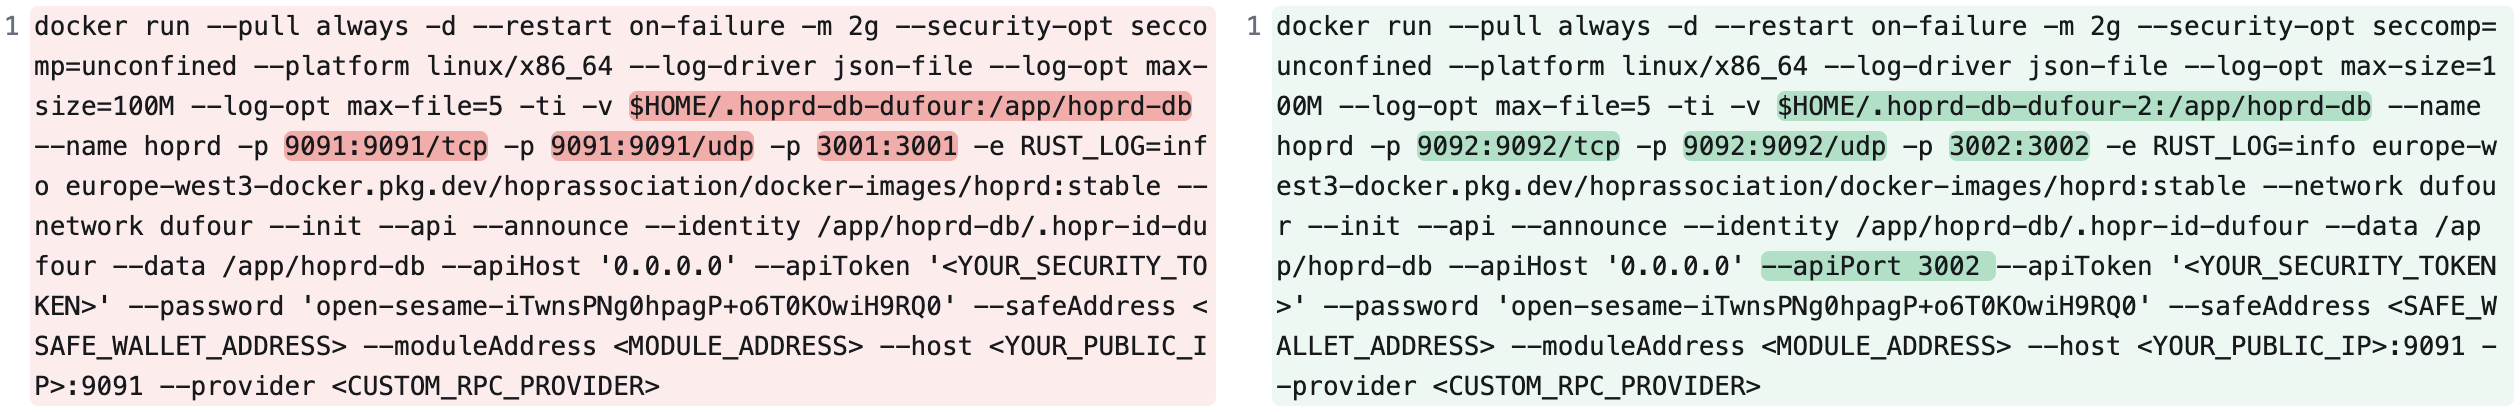
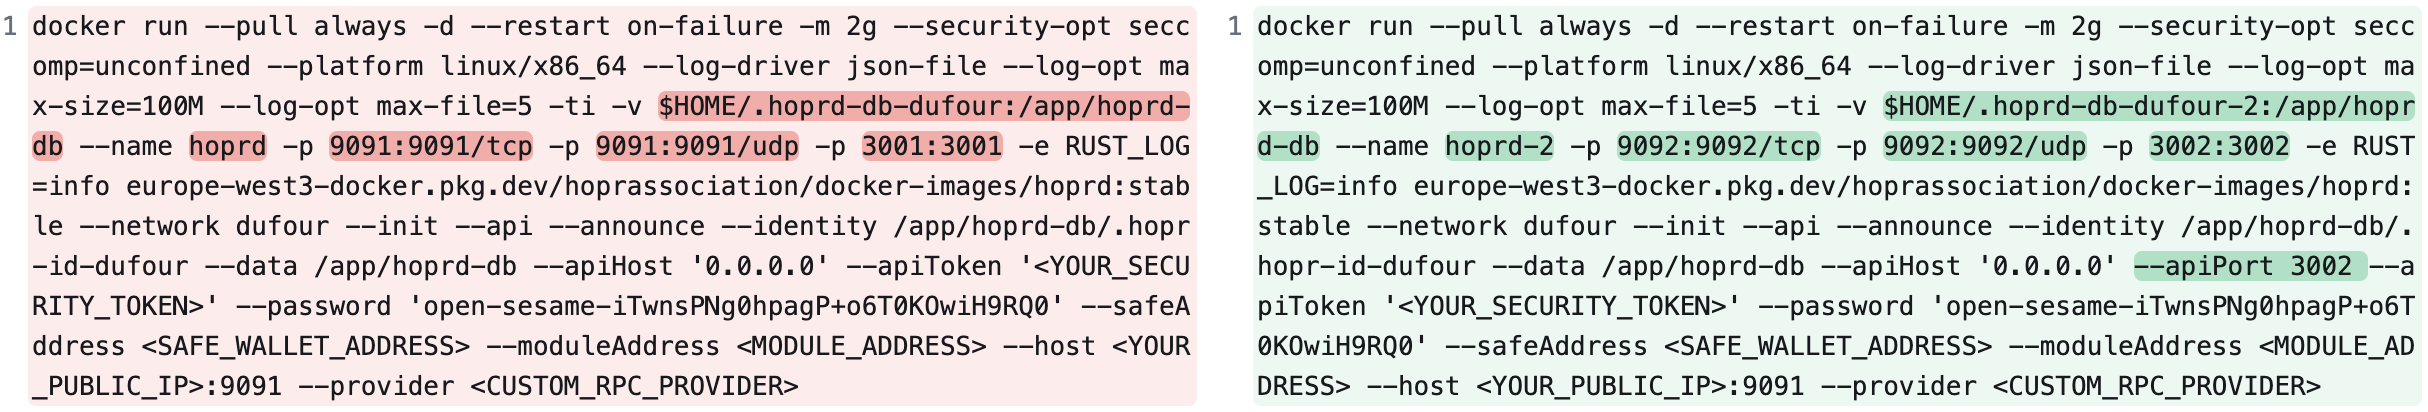
updating multinode command

diff --git a/versioned_docs/version-v2.1.0/node/using-docker.md b/versioned_docs/version-v2.1.0/node/using-docker.md
@@ -336,6 +336,7 @@ For example, the second node should make these changes:
 - Change `-v $HOME/.hoprd-db-dufour:/app/hoprd-db` to `-v $HOME/.hoprd-db-dufour-2:/app/hoprd-db`
 - Add `--apiPort 3002` (where first defaults to 3001)
 - Make sure to suffix your IP address with the new port instead of `9091` in this example it would now be `9092`
+- Give a different name to your second node by changing `--name hoprd` to `--name hoprd-2`
 
 All these changes implemented would be similar to the following:
 
@@ -349,5 +350,5 @@ docker run --pull always -d --restart on-failure -m 2g --security-opt seccomp=un
 And the second node's command (on the right in the image above) is:
 
 ```md
-docker run --pull always -d --restart on-failure -m 2g --security-opt seccomp=unconfined --platform linux/x86_64 --log-driver json-file --log-opt max-size=100M --log-opt max-file=5 -ti -v $HOME/.hoprd-db-dufour-2:/app/hoprd-db --name hoprd -p 9092:9092/tcp -p 9092:9092/udp -p 3002:3002 -e RUST_LOG=info europe-west3-docker.pkg.dev/hoprassociation/docker-images/hoprd:stable --network dufour --init --api --announce --identity /app/hoprd-db/.hopr-id-dufour --data /app/hoprd-db --apiHost '0.0.0.0' --apiPort 3002 --apiToken '<YOUR_SECURITY_TOKEN>' --password 'open-sesame-iTwnsPNg0hpagP+o6T0KOwiH9RQ0' --safeAddress <SAFE_WALLET_ADDRESS> --moduleAddress <MODULE_ADDRESS> --host <YOUR_PUBLIC_IP>:9091 --provider <CUSTOM_RPC_PROVIDER>
+docker run --pull always -d --restart on-failure -m 2g --security-opt seccomp=unconfined --platform linux/x86_64 --log-driver json-file --log-opt max-size=100M --log-opt max-file=5 -ti -v $HOME/.hoprd-db-dufour-2:/app/hoprd-db --name hoprd-2 -p 9092:9092/tcp -p 9092:9092/udp -p 3002:3002 -e RUST_LOG=info europe-west3-docker.pkg.dev/hoprassociation/docker-images/hoprd:stable --network dufour --init --api --announce --identity /app/hoprd-db/.hopr-id-dufour --data /app/hoprd-db --apiHost '0.0.0.0' --apiPort 3002 --apiToken '<YOUR_SECURITY_TOKEN>' --password 'open-sesame-iTwnsPNg0hpagP+o6T0KOwiH9RQ0' --safeAddress <SAFE_WALLET_ADDRESS> --moduleAddress <MODULE_ADDRESS> --host <YOUR_PUBLIC_IP>:9091 --provider <CUSTOM_RPC_PROVIDER>
 ```
